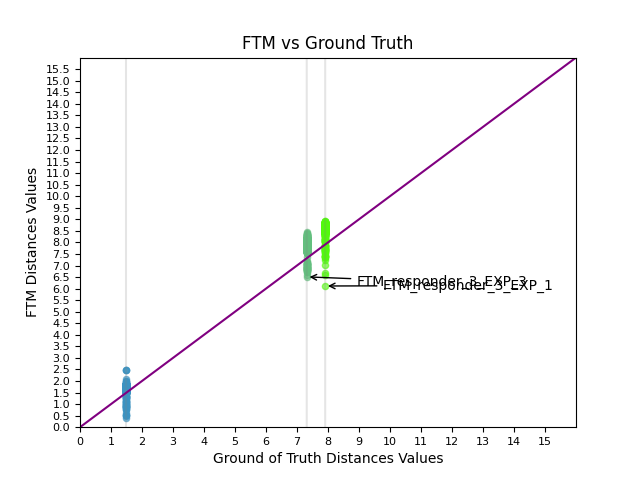
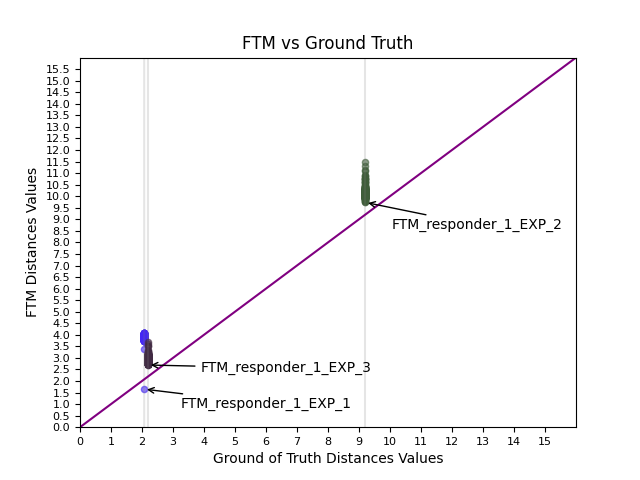
Refactored code. Include now some more customize options to plot.

diff --git a/main.py b/main.py
@@ -5,8 +5,7 @@ import tkinter as tk
 from tkinter import filedialog
 from functools import partial
 import math
-import threading
-import time
+from scipy.optimize import least_squares
 import matplotlib.pyplot as plt
 import numpy as np
 import itertools
@@ -14,11 +13,58 @@ import random
 
 
 class TeseWindow(tk.Tk):
+    """
+        When the rectangle was instantiated this dictionary will link AP name with rectangle drawn on the canvas
+        {'FTM_responder_1': 31, 'FTM_responder_2': 33, 'FTM_responder_3': 35, 'FTM_responder_4': 37, 'FTM_responder_5': 39, 'FTM_responder_6': 41}
+    """
     ap_locations_rect_id = {}
+    """
+        Links AP name with its coordinates. The coordinates are multiplied by 100. Which means at the real world 'FTM_responder_1' is positioned at (8.1, 4.8)
+        {'FTM_responder_1': (81.0, 48.0), 'FTM_responder_2': (500.0, 600.0), 'FTM_responder_3': (1000.0, 248.0), 'FTM_responder_4': (500.0, 300.0), 'FTM_responder_5': (269.0, 600.0), 'FTM_responder_6': (1000.0, 540.0)}
+    """
     ap_locations_coordinate = {}
+    """
+        Variable that has what information already was imported. There is no explict use.
+    """
     control = {}
+    """
+        This variable holds a list of experience names that was imported. Change the current experience will change the mobile location on the canvas
+        ['EXP_1', 'EXP_2', 'EXP_3', 'EXP_4', 'EXP_5', 'EXP_6']
+    """
     experience_options = []
+    """
+        Holds a list of dictionary that relate experience with the mobile location coordinate
+        [{'name': 'EXP_1', 'xCoordinate': 2.1, 'yCoordinate': 2.1, 'zCoordinate': 0}, {'name': 'EXP_2', 'xCoordinate': 10, 'yCoordinate': 1, 'zCoordinate': 0}, {'name': 'EXP_3', 'xCoordinate': 3, 'yCoordinate': 0.36, 'zCoordinate': 0.73}, {'name': 'EXP_4', 'xCoordinate': 0.5, 'yCoordinate': 0.96, 'zCoordinate': 0.93}, {'name': 'EXP_5', 'xCoordinate': 5, 'yCoordinate': 6, 'zCoordinate': 0}, {'name': 'EXP_6', 'xCoordinate': 8.2, 'yCoordinate': 0, 'zCoordinate': 0.73}]
+    """
     mobile_information = {}
+    """
+        Holds the id for tracker the rectangle role playing as the mobile in the canvas
+    """
+    mobile_location_id_rect = 0
+
+    """
+        The Data variable will contain the ranging distance information regarding all experience and all APs 
+        {'EXP_1': {'FTM_responder_6': [7.934, 7.812, 7.907, 7.818, 7.91, 7.931,...]},
+        {'FTM_responder_4': [7.934, 7.812, 7.907, 7.818, 7.91, 7.931,...]}......,
+        
+        {'EXP_2': {'FTM_responder_6': [7.934, 7.812, 7.907, 7.818, 7.91, 7.931,...]},
+        {'FTM_responder_4': [7.934, 7.812, 7.907, 7.818, 7.91, 7.931,...]}}
+    
+    """
+    data = {}
+    """
+        This variable will contain  a dictionary that link EXP and checkbox in the GUI. This variable is used to plot only the EXPs selected
+        {'EXP_1': <tkinter.BooleanVar object at 0x000002C8EDF19B10>, 'EXP_2': <tkinter.BooleanVar object at 0x000002C8EDF19850>, 'EXP_3': <tkinter.BooleanVar object at 0x000002C8EDF19C50>}
+    """
+    include_menu_exp_variables = {}
+
+    """
+        This variable will contain  a dictionary that link AP and checkbox in the GUI. This variable is used to plot only the APs selected
+        {'FTM_responder_1': <tkinter.BooleanVar object at 0x000002C8EDF18290>, 'FTM_responder_2': <tkinter.BooleanVar object at 0x000002C8EDF18490>, 'FTM_responder_3': <tkinter.BooleanVar object at 0x000002C8EDF18550>, 'FTM_responder_4': <tkinter.BooleanVar object at 0x000002C8EDF18590>, 'FTM_responder_5': <tkinter.BooleanVar object at 0x000002C8EDF18610>, 'FTM_responder_6': <tkinter.BooleanVar object at 0x000002C8EDF18690>}
+    """
+    include_menu_ap_variables = {}
+
+    must_include_LMS_line = None
     def __init__(self):
         super().__init__()
         self.title("WiFi RTT Analysis")
@@ -27,63 +73,98 @@ class TeseWindow(tk.Tk):
         self.canvas = tk.Canvas(self, width=1100, height=700)
         self.canvas.pack()
         self.create_grid(10,6)
-
-        # Create a menu bar
         self.menubar = tk.Menu(self)
         self.config(menu=self.menubar)
+        self.create_menu_file()
+        self.create_menu_analysis()
 
+
+    def create_menu_analysis(self):
+        self.must_include_LMS_line = tk.BooleanVar()
+        analysis_menu = tk.Menu(self.menubar)
+        self.menubar.add_cascade(label="Analysis", menu=analysis_menu)
+        analysis_menu.add_command(label="Plot", command=self.plot_scatter)
+        analysis_menu.add_checkbutton(label="Must Include LMS line", onvalue=1, offvalue=0,
+                                              variable=self.must_include_LMS_line)
+
+    def create_menu_file(self):
         # Create a File menu with options to Exit and Save
         file_menu = tk.Menu(self.menubar)
         self.menubar.add_cascade(label="File", menu=file_menu)
         file_menu.add_command(label="Import configuration file", command=self.import_json_configuration)
         file_menu.add_command(label="Import mobile location", command=self.import_json_mobile_location)
         file_menu.add_command(label="Import data", command=self.import_data)
-        file_menu.add_command(label="Import data to visualize", command= threading.Thread(target=self.import_data_animated).start)
-
         file_menu.add_command(label="Exit", command=self.quit)
 
-        # Create Analysis menu
-        analysis_menu = tk.Menu(self.menubar)
-        self.menubar.add_cascade(label="Analysis", menu=analysis_menu)
-        analysis_menu.add_command(label="Plot", command=self.plot_scatter)
+    def create_experience_menu(self, data):
+        for item in data:
+            self.experience_options.append(item["name"])
+        experience_menu = tk.Menu(self.menubar)
+        self.menubar.add_cascade(label="Mobile location at position", menu=experience_menu)
+        for item in self.experience_options:
+            exp_x = next(xx for xx in data if xx["name"] == item)
+            x_coordinate = exp_x["xCoordinate"]
+            y_coordinate = exp_x["yCoordinate"]
+            experience_menu.add_command(label=item,
+                                        command=partial(self.draw_mobile_location, x_coordinate, y_coordinate))
 
+    # Define the function to be minimized
+    def func(self,params, x, y):
+        m, b = params
+        y_pred = m * x + b
+        return y_pred - y
 
-        # Control Variable
 
     def plot_scatter(self):
         fig, ax = plt.subplots()
+        all_data_x = []
+        all_data_y = []
         for exp in self.include_menu_exp_variables:
-            for ap in self.include_menu_ap_variables:
-                if(self.include_menu_ap_variables[ap].get()):
+            if(self.include_menu_exp_variables[exp].get()):
+                for ap in self.include_menu_ap_variables:
+                    if(self.include_menu_ap_variables[ap].get()):
 
-                    number_of_colors = 80
-                    colors = itertools.cycle(["#" + ''.join([random.choice('0123456789ABCDEF') for j in range(6)])
-                                              for i in range(number_of_colors)])
-                    data_y = self.data[exp][ap]
-                    exp_x = next(xx for xx in self.mobile_information if xx["name"] == exp)
-                    rect1_x1, rect1_y1 = self.ap_locations_coordinate[ap]
-                    rect1_x1 = rect1_x1 /100
-                    rect1_y1 = rect1_y1 / 100
-                    rect2_x1 = exp_x["xCoordinate"]
-                    rect2_y1 = exp_x["yCoordinate"]
+                        number_of_colors = 80
+                        colors = itertools.cycle(["#" + ''.join([random.choice('0123456789ABCDEF') for j in range(6)])
+                                                  for i in range(number_of_colors)])
+                        data_y = self.data[exp][ap]
+                        exp_x = next(xx for xx in self.mobile_information if xx["name"] == exp)
+                        rect1_x1, rect1_y1 = self.ap_locations_coordinate[ap]
+                        rect1_x1 = rect1_x1 / 100
+                        rect1_y1 = rect1_y1 / 100
+                        rect2_x1 = exp_x["xCoordinate"]
+                        rect2_y1 = exp_x["yCoordinate"]
 
-                    distance = math.sqrt((rect1_x1 - rect2_x1) ** 2 + (rect1_y1 - rect2_y1) ** 2)
+                        distance = math.sqrt((rect1_x1 - rect2_x1) ** 2 + (rect1_y1 - rect2_y1) ** 2)
 
-                    data_x = [distance] * len(self.data[exp][ap])
-                    if (len(data_x) > 0):
-                        ax.scatter(data_x, data_y, s=20, color=next(colors) ,alpha=0.6)
-                        ax.plot(data_x, range(0,len(data_y)), color="gray",alpha=0.2)
-                        # Add an annotation to the bounding box
-                        random_float = np.random.uniform(low=-1, high=1)
-                        xmin = (data_x[0])
-                        ymin = min(data_y)
+                        data_x = [distance] * len(self.data[exp][ap])
+                        all_data_x+= data_x
+                        all_data_y+= data_y
+                        if (len(data_x) > 0):
+                            ax.scatter(data_x, data_y, s=20, color=next(colors) ,alpha=0.6)
+                            ax.plot(data_x, range(0,len(data_y)), color="gray",alpha=0.2)
+                            # Add an annotation to the bounding box
+                            random_float = np.random.uniform(low=-1, high=1)
+                            xmin = (data_x[0])
+                            ymin = min(data_y)
 
-                        plt.annotate(f'{ap}_{exp}',
-                                     xy=(xmin, ymin), xycoords='data',
-                                     xytext=(xmin + 1 + random_float, ymin - 1 + random_float), textcoords='data',
-                                     arrowprops=dict(arrowstyle="->",
-                                                     connectionstyle="arc3"))
+                            plt.annotate(f'{ap}_{exp}',
+                                         xy=(xmin, ymin), xycoords='data',
+                                         xytext=(xmin + 1 + random_float, ymin - 1 + random_float), textcoords='data',
+                                         arrowprops=dict(arrowstyle="->",
+                                                 connectionstyle="arc3"))
+        if(self.must_include_LMS_line.get()):
+            # Define the initial guess for the parameters
+            params0 = [1, 1]
 
+            # Use the least_squares function to find the line of best fit
+            result = least_squares(self.func, params0, args=(np.array(all_data_x), np.array(all_data_y)))
+
+            # Extract the optimal values of m and b from the result
+            m, b = result.x
+            print(f'm={m} b={b}')
+            LMS_y_values = [y*m+b for y in range(0, 100) ]
+            ax.plot(range(0, 100), LMS_y_values, color="red")
 
         ax.plot(range(0, 100), range(0, 100), c='purple')
         ax.set(xlim=(0, 16), xticks=np.arange(start=0, stop=16, step=1),
@@ -99,16 +180,16 @@ class TeseWindow(tk.Tk):
                 'weight': 'bold',
                 'size': 'larger'}
         plt.show()
-        fig.savefig('ftm_responder_1.png')
+        fig.savefig('output.png')
 
 
 
     def create_grid(self,x_units,y_units):
         # Draw x-axis
-        self.canvas.create_line(0, 0, 1000, 0, width=2)
+        self.canvas.create_line(0, 0, x_units *100, 0, width=2)
 
         # Draw y-axis
-        self.canvas.create_line(0, 0, 0, 600, width=2)
+        self.canvas.create_line(0, 0, 0, y_units * 100, width=2)
 
         # Display unit steps on x-axis
         for i in range(1, 11):
@@ -118,13 +199,12 @@ class TeseWindow(tk.Tk):
         for i in range(1, 7):
             self.canvas.create_text(22, i*100, text=str(i))
 
-    def __draw_distances(self):
-
-        if (hasattr(self, "mobile_location") and hasattr(self,"ap_locations_rect_id")):
-            rect2_x1, rect2_y1, rect2_x2, rect2_y2 = self.canvas.coords(self.mobile_location)
+    def draw_distances(self):
+        if (hasattr(self, "mobile_location_id_rect") and hasattr(self,"ap_locations_rect_id")):
+            rect2_x1, rect2_y1, rect2_x2, rect2_y2 = self.canvas.coords(self.mobile_location_id_rect)
             for ap in self.ap_locations_rect_id:
                 # Extract the x1, y1, x2, y2 coordinates of the two rectangles
-                rect1_x1, rect1_y1, rect1_x2, rect1_y2 = self.canvas.coords( self.ap_locations_rect_id[ap])
+                rect1_x1, rect1_y1, rect1_x2, rect1_y2 = self.canvas.coords(self.ap_locations_rect_id[ap])
                 # Draw the line between the two rectangles
                 line = self.canvas.create_line(rect1_x1, rect1_y1, rect2_x1, rect2_y1, width=1, fill="gray")
                 # Calculate the distance between the two rectangles
@@ -132,13 +212,10 @@ class TeseWindow(tk.Tk):
                 # Find the midpoint of the line
                 x = (rect2_x1 + rect1_x1) / 2
                 y = (rect2_y1 + rect1_y1) / 2
-
-                # Create a text label for the distance
-
-                text = self.canvas.create_text(x, y, text=f"{distance: .2f}", font=("Arial", 10),fill="red")
+                #Create a text label for the distance
+                self.canvas.create_text(x, y, text=f"{distance: .2f}", font=("Arial", 10),fill="red")
 
     def import_json_mobile_location(self):
-
         filename = filedialog.askopenfilename(filetypes=[("JSON files", "*.json")])
         if filename:
             with open(filename, "r") as f:
@@ -147,18 +224,7 @@ class TeseWindow(tk.Tk):
                 self.create_experience_menu(data)
                 self.control["mobile_location_file"] = True
 
-    def create_experience_menu(self, data):
-        for item in data:
-            self.experience_options.append(item["name"])
-        experience_menu = tk.Menu(self.menubar)
-        self.menubar.add_cascade(label="Experience", menu=experience_menu)
 
-        for item in self.experience_options:
-            exp_x = next(xx for xx in data if xx["name"] == item)
-            x_coordinate = exp_x["xCoordinate"]
-            y_coordinate = exp_x["yCoordinate"]
-            experience_menu.add_command(label=item,
-                                        command=partial(self.__draw_mobile_location, x_coordinate, y_coordinate))
 
     def import_json_configuration(self):
         filename = filedialog.askopenfilename(filetypes=[("JSON files", "*.json")])
@@ -170,16 +236,15 @@ class TeseWindow(tk.Tk):
                     y = (float(entry["yCoordinate"]) * 100)
                     self.ap_locations_coordinate[entry["SSID"]] = (x, y)
             self.control["configuration_file"] = True
-            self.__draw_aps()
+            self.draw_aps()
         self.include_menu_ap = tk.Menu(self.menubar)
-        self.include_menu_ap_variables = {}
-        self.menubar.add_cascade(label="Include", menu=self.include_menu_ap)
+        self.menubar.add_cascade(label="Consider  selected APs when plotting", menu=self.include_menu_ap)
         for ap in self.ap_locations_coordinate:
             self.include_menu_ap_variables[ap] = tk.BooleanVar()
             self.include_menu_ap.add_checkbutton(label=ap, onvalue=1, offvalue=0,
                                                  variable=self.include_menu_ap_variables[ap])
 
-    def __draw_aps(self):
+    def draw_aps(self):
         self.ap_locations_rect_id.clear()
         for ap, coord in self.ap_locations_coordinate.items():
             x = coord[0]
@@ -188,21 +253,11 @@ class TeseWindow(tk.Tk):
             self.ap_locations_rect_id[ap] = ap_id
             self.canvas.create_text( x+ 5,y+ 15, text=ap)
 
-    def __draw_mobile_location(self, x_coordinate, y_coordinate):
-        self.canvas.delete("all")
-        self.__draw_aps()
-        self.create_grid(10, 6)
-        coord = (x_coordinate * 100, y_coordinate * 100)
-        self.mobile_location = self.canvas.create_rectangle(*coord, *(coord + (10, 10)), fill="blue")
-        self.__draw_distances()
 
     def import_data(self):
         self.control["configuration_file"] = True
-        self.data = {}
         self.include_menu_exp = tk.Menu(self.menubar)
-        self.include_menu_exp_variables = {}
-        self.menubar.add_cascade(label="Include EXP", menu=self.include_menu_exp)
-
+        self.menubar.add_cascade(label="Consider selected EXPs when plotting", menu=self.include_menu_exp)
         filenames = filedialog.askopenfilenames(filetypes=[("CSV files", "*.csv")])
         for filename in filenames:
             if filename:
@@ -219,36 +274,14 @@ class TeseWindow(tk.Tk):
                 self.include_menu_exp_variables[name_without_path_or_extension] = tk.BooleanVar()
                 self.include_menu_exp.add_checkbutton(label=f"{name_without_path_or_extension}", onvalue=1, offvalue=0, variable=self.include_menu_exp_variables[name_without_path_or_extension])
 
-    def __draw_mobile_location(self,x_coordinate,y_coordinate):
+    def draw_mobile_location(self,x_coordinate,y_coordinate):
         self.canvas.delete("all")
-        self.__draw_aps()
+        self.draw_aps()
         self.create_grid(10, 6)
         x = int(float(x_coordinate * 100))
         y = int(float(y_coordinate * 100))
-        self.mobile_location = self.canvas.create_rectangle(x, y, x + 10, y + 10, fill="blue")
-        self.__draw_distances()
-    def import_data_animated(self):
-        ap_locations_animation_text = {}
-        for ap in self.ap_locations_coordinate:
-            x = self.ap_locations_coordinate[ap][0]
-            y = self.ap_locations_coordinate[ap][1]
-            text = self.canvas.create_text(x, y + 30, text=f"", font=("Arial", 14), fill="purple")
-            ap_locations_animation_text[ap] = text
-
-        filename = filedialog.askopenfilename(filetypes=[("CSV files", "*.csv")])
-        if filename:
-            with open(filename, 'r') as file:
-                reader = csv.reader(file, skipinitialspace=True)
-                next(reader)  # skip the first line
-                c = 0
-                for row in reader:
-                    c+=1
-                    text_x, text_y = self.canvas.coords(ap_locations_animation_text[row[10]])
-                    self.canvas.delete(ap_locations_animation_text[row[10]])
-                    text = self.canvas.create_text(text_x, text_y , text=f"{float(row[4]): .2f}", font=("Arial", 10), fill="purple")
-                    ap_locations_animation_text[row[10]] = text
-                    if(c% len(self.ap_locations_coordinate) == 0):
-                        time.sleep(0.3)
+        self.mobile_location_id_rect = self.canvas.create_rectangle(x, y, x + 10, y + 10, fill="blue")
+        self.draw_distances()
 
 if __name__ == "__main__":
     window = TeseWindow()
